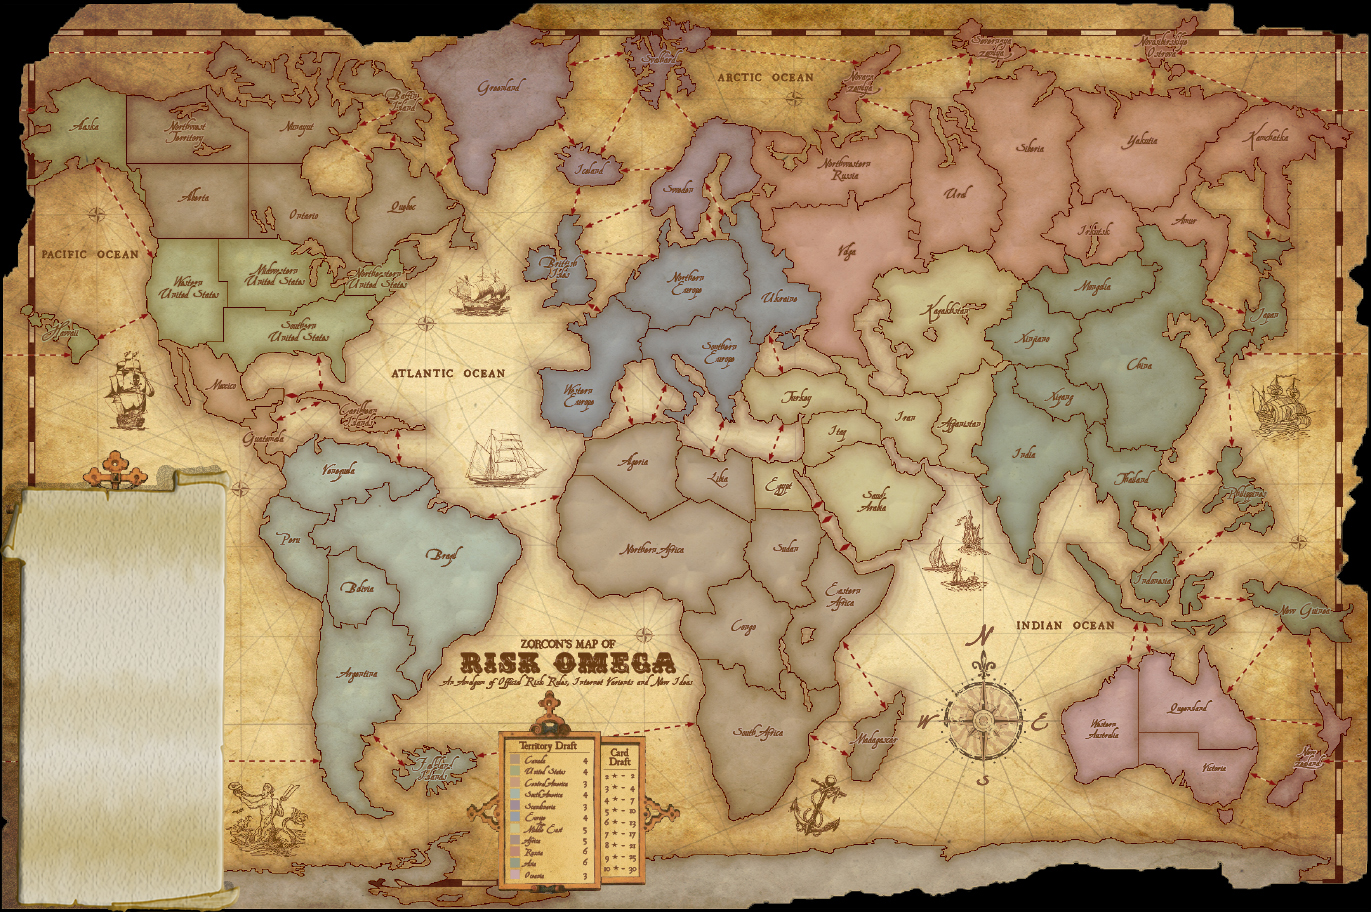
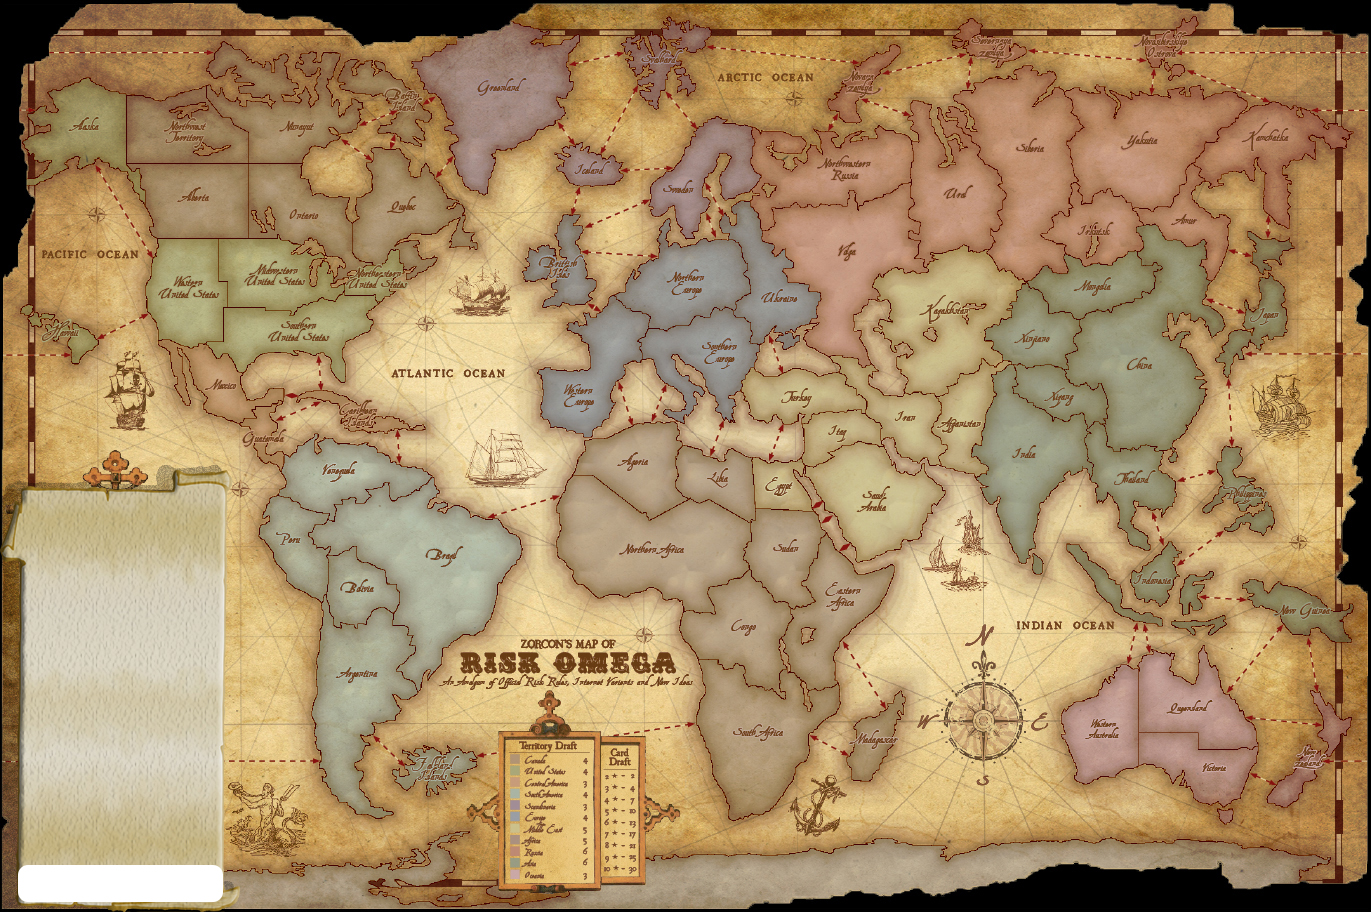
Added basic textlog functions

Changed region(s): [[0.0, 0.9211, 0.1838, 1.0]]

diff --git a/src/risk/Gameplay.java b/src/risk/Gameplay.java
@@ -1,6 +1,11 @@
 
 package risk;
 
+import java.awt.FontFormatException;
+import java.io.IOException;
+import java.util.logging.Level;
+import java.util.logging.Logger;
+
 public class Gameplay {
     
     static public enum Phase { DEPLOY, ATTACK, FORTIFY }
@@ -33,7 +38,13 @@ public class Gameplay {
     
     public void drawAndSoundHandler(Risk frame, int x, int y) {
         Country.setCountryOnMouse(x, y);
-        RiskMap.draw(frame, x, y, phase);
+        try {
+            RiskMap.draw(frame, x, y, phase);
+        } catch (FontFormatException ex) {
+            Logger.getLogger(Gameplay.class.getName()).log(Level.SEVERE, null, ex);
+        } catch (IOException ex) {
+            Logger.getLogger(Gameplay.class.getName()).log(Level.SEVERE, null, ex);
+        }
         RiskMap.mouseInCountryHandler(x, y, phase);
     }
     
@@ -77,9 +88,10 @@ public class Gameplay {
                     selectedCountry = null;
                 else
                     selectedCountry = Country.getSelectedList().get(0);
-                if (selectedCountry != null)
-                System.out.println("You have " + currentPlayer.getDeployableTroops() + " troops left to deploy.\n"
-                        + "How many would you like to deploy in " + selectedCountry.getName() + "?");
+                if (selectedCountry != null){
+                
+                }
+                
             }
         }
         else if (selectedCountry != null) {
@@ -97,9 +109,11 @@ public class Gameplay {
                     if (deployAmount*10+Integer.parseInt(key) <= currentPlayer.getDeployableTroops())
                         deployAmount = deployAmount*10+Integer.parseInt(key);
                     System.out.println("Press enter to deploy " + deployAmount + " troops into " + selectedCountry.getName() + ".");
+                    TextLog.addToInput(key);
                     break;
                 case "backspace":
                     deployAmount = (int)deployAmount/10;
+                    TextLog.removeOneInput();
                     break;
                 case "enter":
                     if (deployAmount > 0) {
@@ -111,11 +125,17 @@ public class Gameplay {
                         Country.getSelectedList().clear();
                         if (currentPlayer.getDeployableTroops() <= 0) {
                             System.out.println("No more troops to deploy. Switching turns.");
+                            Player oldPlayer = currentPlayer;
                             switchTurnHandler();
+                            if(oldPlayer == currentPlayer)
+                                TextLog.createStatement("You have " + currentPlayer.getDeployableTroops() + " troops left to deploy.\n");
                         }
                         else
                             System.out.println("You have " + currentPlayer.getDeployableTroops() + " left to deploy.");
+                        
                     }
+                    
+                    TextLog.clearInput();
                     break;
                 default:
                     break;
@@ -137,6 +157,8 @@ public class Gameplay {
     private void deployPhaseInit() {
         phase = Phase.DEPLOY;
         currentPlayer.setDeployableTroops();
+        System.out.println("called");
+        TextLog.createStatement("You have " + currentPlayer.getDeployableTroops() + " troops left to deploy.\n");
         deployAmount = 0;
     }
     
@@ -151,6 +173,8 @@ public class Gameplay {
     private void switchTurnHandler() {
         for (int i=0;i<players.length;i++) {
             if (currentPlayer == players[i]) {
+                
+                TextLog.createStatement("Next players turn");
                 if (i == players.length-1) {
                     currentPlayer = players[0];
                     System.out.println("Successfully switched turns. Player " + i + " is now playing.");

diff --git a/src/risk/TextLog.java b/src/risk/TextLog.java
@@ -1,0 +1,91 @@
+
+package risk;
+
+import java.awt.Color;
+import java.awt.Font;
+import java.awt.FontFormatException;
+import java.awt.Graphics2D;
+import java.io.File;
+import java.io.FileInputStream;
+import java.io.FileNotFoundException;
+import java.io.IOException;
+import java.util.ArrayList;
+import java.util.logging.Level;
+import java.util.logging.Logger;
+import static risk.Risk.g;
+public class TextLog {
+    private static String input = "";
+    private static ArrayList<TextLog> statements = new ArrayList<TextLog>();
+    private String statement;
+    private int x;
+    private int y;
+    
+    TextLog(String _statement){
+        statement=_statement;
+        x=20;
+        y=857;
+        for(int i=0;i<statements.size();i++){
+            statements.get(i).y-=25;
+        }
+    }
+    
+    static void createStatement(String _state){
+        TextLog _statement = new TextLog(_state);
+        statements.add(_statement);
+    }
+    
+    static void drawStatements(Graphics2D g){
+        //Storing old sets for colors,text,etc
+        Color oldColor = g.getColor();
+        Font oldFont = g.getFont();
+        SetFontsAndColors(14);
+        
+        
+        
+        for(TextLog s : statements){
+            if(s.y<500){
+                statements.remove(s);
+            }
+            g.drawString(s.statement, s.x, s.y);
+        }
+        
+        //Setting font back to old sets
+        g.setColor(oldColor);
+        g.setFont(oldFont);
+    }
+    static void drawInput(Graphics2D g) throws FileNotFoundException, FontFormatException, IOException{
+        //Storing old sets for colors,text,etc
+        Color oldColor = g.getColor();
+        Font oldFont = g.getFont();
+        SetFontsAndColors(20);
+        
+        
+        g.drawString(input, 20, 890);
+        
+        
+        //Setting font back to old sets
+        g.setColor(oldColor);
+        g.setFont(oldFont);
+    }
+    static void addToInput(String s){
+        input+=s;
+    }
+    static void removeOneInput(){
+        if(input.length()-1>-1)
+        input = input.substring(0, input.length()-1);
+    }
+    static void clearInput(){
+        input="";
+    }
+    
+    static void SetFontsAndColors(int fontSize){
+        g.setColor(Color.RED);
+        try {
+            g.setFont( Font.createFont(Font.TRUETYPE_FONT, new FileInputStream(new File("FontFiles/Viner.ttf"))).deriveFont(Font.PLAIN,fontSize));
+        } catch (FontFormatException ex) {
+            Logger.getLogger(TextLog.class.getName()).log(Level.SEVERE, null, ex);
+        } catch (IOException ex) {
+            Logger.getLogger(TextLog.class.getName()).log(Level.SEVERE, null, ex);
+        }
+    }
+}

diff --git a/src/risk/RiskMap.java b/src/risk/RiskMap.java
@@ -1,9 +1,11 @@
 
 package risk;
 
+import java.awt.FontFormatException;
 import java.awt.Image;
 import java.awt.Polygon;
 import java.awt.Toolkit;
+import java.io.IOException;
 import java.util.ArrayList;
 import static risk.Risk.g;
 
@@ -12,7 +14,7 @@ public class RiskMap {
     static private Image phaseImage = phaseImage = Toolkit.getDefaultToolkit().getImage("./deploy.png");;
     static private ArrayList<Country> countries = new ArrayList<Country>();
     
-    static public void draw(Risk frame, int x, int y, Gameplay.Phase phase) {
+    static public void draw(Risk frame, int x, int y, Gameplay.Phase phase) throws FontFormatException, IOException {
         // Draws map
         g.drawImage(mapImage, 0, 0, Window.MAP_WINDOW_WIDTH, Window.MAP_WINDOW_HEIGHT, frame);
         // Draws current phase name
@@ -26,6 +28,9 @@ public class RiskMap {
         // Draws current country name by mouse pointer
         if (Country.getCountryOnMouse() != null)
             Country.getCountryOnMouse().drawNameOnMouse(x, y);
+        // Draws input in TextLog
+        TextLog.drawInput(g);
+        TextLog.drawStatements(g);
     }
     
     static public void drawPhase(int x, int y, int width, int height, Risk frame) {

diff --git a/src/risk/Risk.java b/src/risk/Risk.java
@@ -28,7 +28,7 @@ public class Risk extends JFrame implements Runnable
             public void mousePressed(MouseEvent e) {
                 int x = e.getX();
                 int y = e.getY();
-                //System.out.println(x + "     " + y);
+                System.out.println(x + " " + y);
                 if(Titlescreen.gameIsStarted()&&bcActive){
                     BorderCreator.startBorder(x, y);
                 }
@@ -196,6 +196,7 @@ public class Risk extends JFrame implements Runnable
         
         
         gOld.drawImage(image, 0, 0, null);
+        
     }
 
     // //////////////////////////////////////////////////////////////////////////
